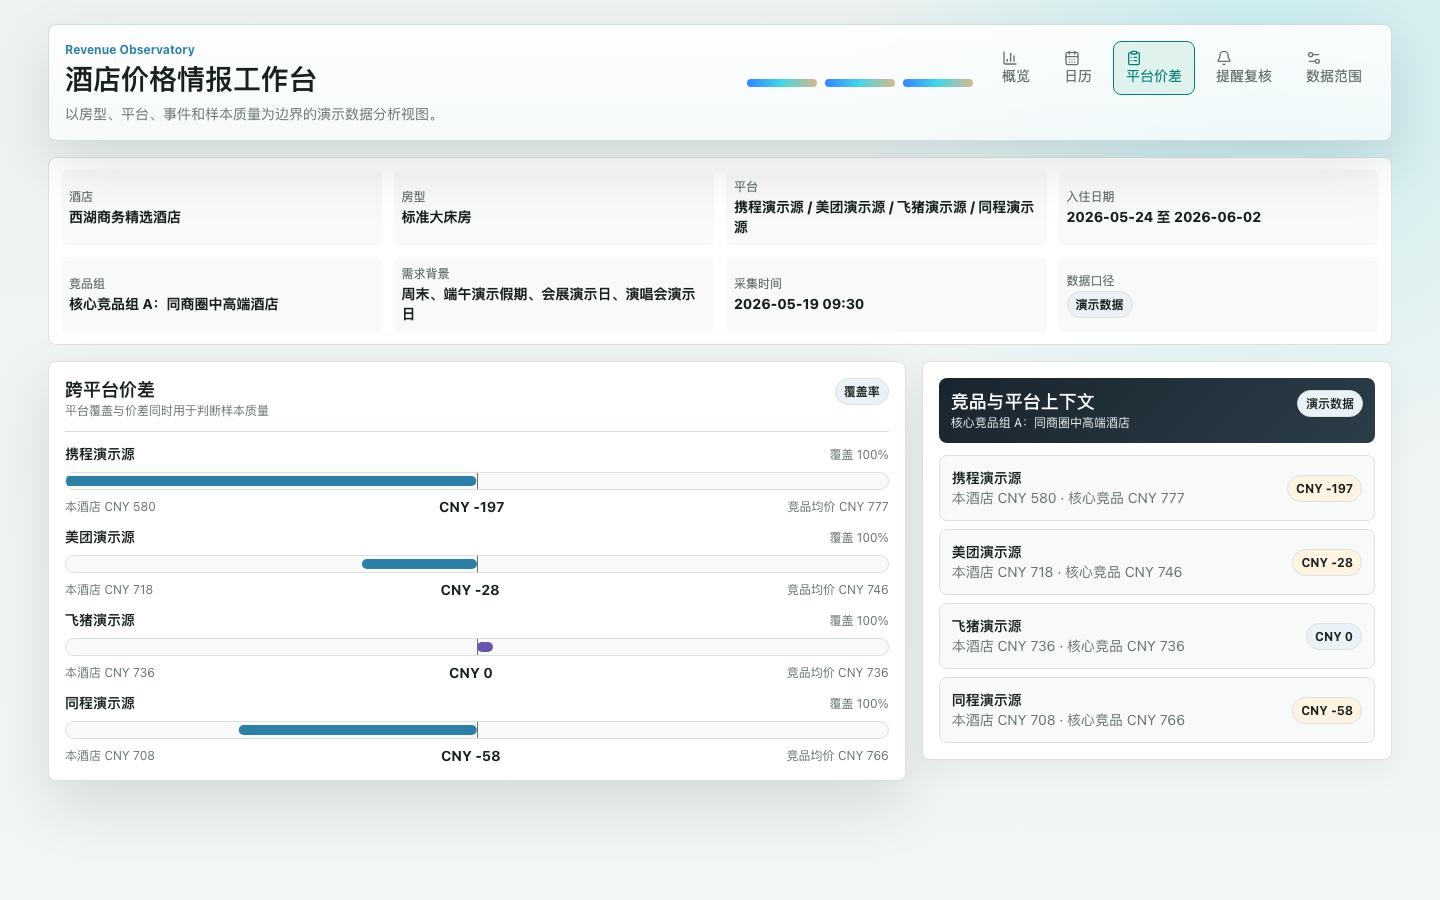
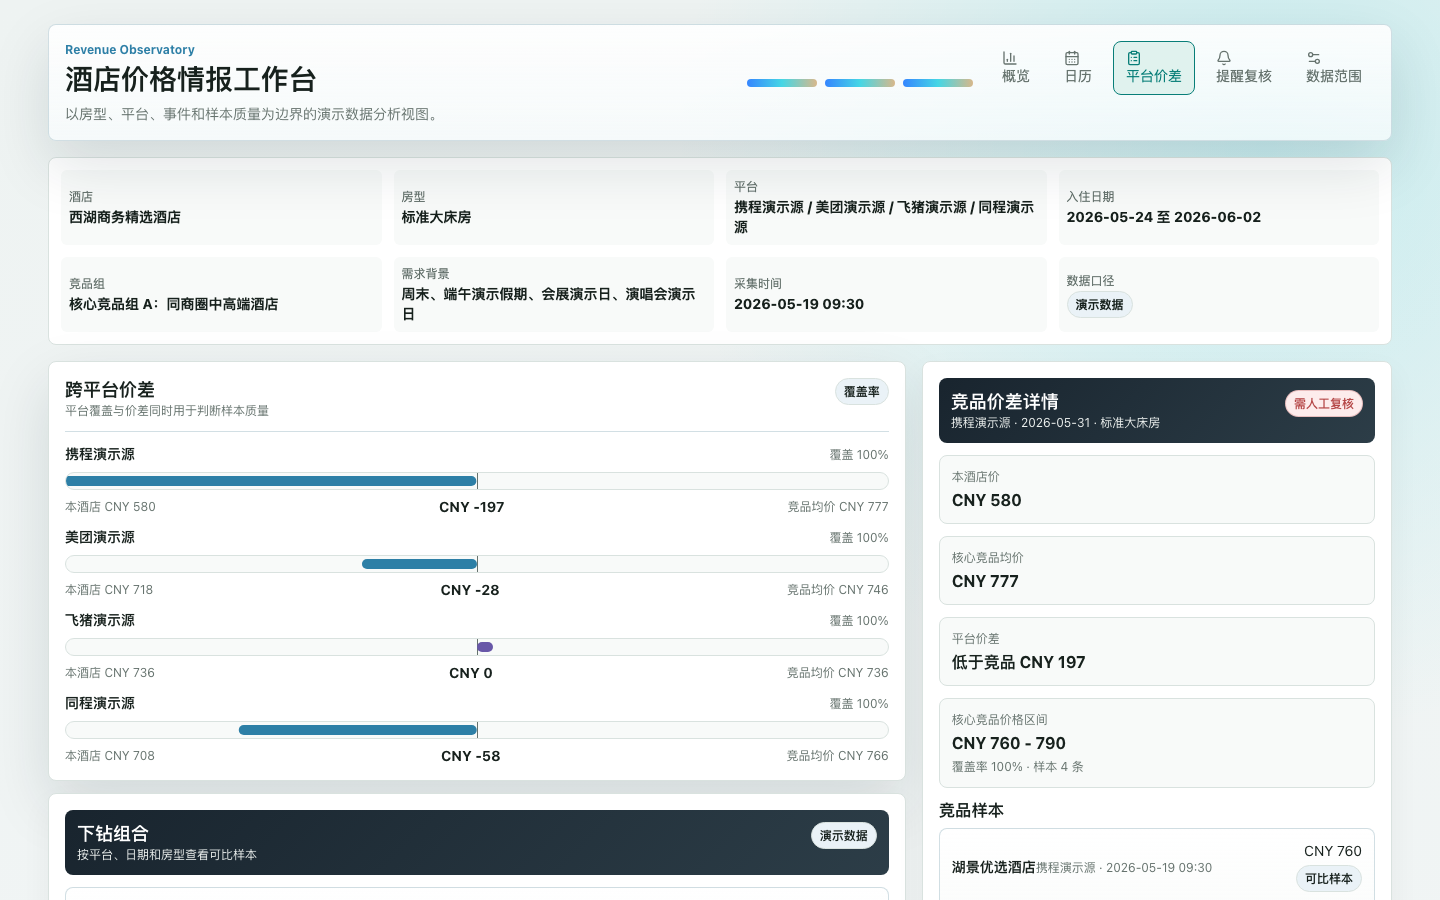
test: cover market comparison drilldown flow

diff --git a/app/tests/e2e/app-foundation.spec.ts b/app/tests/e2e/app-foundation.spec.ts
@@ -10,15 +10,15 @@ const cases = [
   ['overview-normal--390x844.png', '/?screen=overview&state=normal', { width: 390, height: 844 }],
   ['calendar-detail-open--1440x900.png', '/?screen=calendar&state=detail-open', { width: 1440, height: 900 }],
   ['calendar-detail-open--390x844.png', '/?screen=calendar&state=detail-open', { width: 390, height: 844 }],
-  ['market-comparison-platform-bars--1440x900.png', '/?screen=market&state=normal', { width: 1440, height: 900 }],
-  ['market-comparison-platform-bars--390x844.png', '/?screen=market&state=normal', { width: 390, height: 844 }],
+  ['market-comparison-platform-bars--1440x900.png', '/?screen=market&state=detail-open', { width: 1440, height: 900 }],
+  ['market-comparison-platform-bars--390x844.png', '/?screen=market&state=detail-open', { width: 390, height: 844 }],
   ['alert-review-drawer-open--1440x900.png', '/?screen=alerts&state=drawer-open', { width: 1440, height: 900 }],
   ['alert-review-drawer-open--390x844.png', '/?screen=alerts&state=drawer-open', { width: 390, height: 844 }],
   ['setup-data-scope--1280x800.png', '/?screen=setup&state=normal', { width: 1280, height: 800 }],
   ['setup-data-scope--768x1024.png', '/?screen=setup&state=normal', { width: 768, height: 1024 }],
   ['overview-observatory--2048x1352.png', '/?screen=overview&state=normal', { width: 2048, height: 1352 }],
   ['calendar-observatory--2048x1352.png', '/?screen=calendar&state=detail-open', { width: 2048, height: 1352 }],
-  ['market-observatory--2048x1352.png', '/?screen=market&state=normal', { width: 2048, height: 1352 }],
+  ['market-observatory--2048x1352.png', '/?screen=market&state=detail-open', { width: 2048, height: 1352 }],
   ['alert-review-observatory--2048x1352.png', '/?screen=alerts&state=drawer-open', { width: 2048, height: 1352 }],
   ['setup-observatory--2048x1352.png', '/?screen=setup&state=normal', { width: 2048, height: 1352 }]
 ] as const;
@@ -90,6 +90,38 @@ test('calendar date click updates mobile detail workflow without overflow', asyn
   await expect(detail).toContainText('缺少可比样本');
   await expect(detail).not.toContainText('CNY null');
   await expect(detail).not.toContainText('CNY 0');
+
+  const overflow = await page.evaluate(() => document.documentElement.scrollWidth - document.documentElement.clientWidth);
+  expect(overflow).toBeLessThanOrEqual(8);
+});
+
+test('market comparison drilldown updates mobile detail workflow without overflow', async ({ page }) => {
+  await page.setViewportSize({ width: 390, height: 844 });
+  await page.goto('/?screen=market&state=normal');
+  await expect(page.getByTestId('market-drilldown-detail')).toHaveAttribute('data-state', 'closed');
+
+  await page.goto('/?screen=market&state=detail-open');
+
+  const detail = page.getByTestId('market-drilldown-detail');
+  await expect(detail).toHaveAttribute('data-state', 'open');
+  await expect(detail).toContainText('竞品价差详情');
+  await expect(detail).toContainText('2026-05-31');
+  await expect(detail).toContainText('竞品样本');
+  await expect(detail).toContainText('采集时间');
+  await expect(detail).toContainText('需人工复核');
+
+  await page.getByRole('button', { name: /05\/27/ }).click();
+  await expect(detail).toContainText('2026-05-27');
+  await expect(detail).toContainText('暂无可比样本，需要等待人工导入或获授权来源补充。');
+  await expect(detail).toContainText('缺少可比样本');
+  await expect(detail).not.toContainText('CNY null');
+  await expect(detail).not.toContainText('CNY 0');
+
+  const storageWrites = await page.evaluate(() => ({
+    localStorage: window.localStorage.length,
+    sessionStorage: window.sessionStorage.length
+  }));
+  expect(storageWrites).toEqual({ localStorage: 0, sessionStorage: 0 });
 
   const overflow = await page.evaluate(() => document.documentElement.scrollWidth - document.documentElement.clientWidth);
   expect(overflow).toBeLessThanOrEqual(8);

diff --git a/app/src/styles/layout.css b/app/src/styles/layout.css
@@ -789,6 +789,88 @@
   gap: var(--space-4);
 }
 
+.market-drilldown-screen {
+  align-items: start;
+}
+
+.market-option-panel,
+.market-detail-panel,
+.market-detail-section,
+.market-option-list,
+.market-sample-list {
+  min-width: 0;
+}
+
+.market-option-list,
+.market-sample-list,
+.market-detail-section {
+  display: grid;
+  gap: var(--space-8);
+}
+
+.market-option-button {
+  display: grid;
+  grid-template-columns: minmax(0, 1fr) auto;
+  gap: var(--space-12);
+  align-items: center;
+  width: 100%;
+  min-width: 0;
+  padding: var(--space-12);
+  border: var(--border-width) solid var(--observatory-inset-line);
+  border-radius: var(--radius-panel);
+  background: var(--observatory-node-surface);
+  color: var(--color-ink);
+  text-align: left;
+}
+
+.market-option-button[data-selected="true"] {
+  border-color: var(--color-teal);
+  box-shadow: 0 0 0 3px var(--color-active-surface), var(--shadow-soft);
+}
+
+.market-option-button strong,
+.market-option-button small {
+  display: block;
+  overflow-wrap: anywhere;
+}
+
+.market-option-button small,
+.market-sample-row small {
+  color: var(--color-muted);
+  font-size: var(--font-meta-size);
+  line-height: var(--font-meta-line);
+}
+
+.market-sample-row {
+  display: grid;
+  grid-template-columns: minmax(0, 1fr) auto;
+  gap: var(--space-8) var(--space-12);
+  align-items: center;
+  min-width: 0;
+  padding: var(--space-12);
+  border: var(--border-width) solid var(--observatory-inset-line);
+  border-radius: var(--radius-panel);
+  background: var(--observatory-node-surface);
+}
+
+.market-sample-row > small {
+  grid-column: 1 / -1;
+}
+
+.market-sample-row__rate {
+  display: grid;
+  gap: var(--space-4);
+  justify-items: end;
+  text-align: right;
+}
+
+.market-sample-row[data-status="missing-sample"],
+.market-sample-row[data-status="stale"],
+.market-sample-row[data-status="unavailable"],
+.market-sample-row[data-status="source-error"] {
+  border-style: dashed;
+}
+
 .alert-row {
   display: grid;
   grid-template-columns: minmax(0, 1fr) auto;
@@ -1002,6 +1084,16 @@
 
   .metric-lattice {
     grid-template-columns: 1fr;
+  }
+
+  .market-option-button,
+  .market-sample-row {
+    grid-template-columns: minmax(0, 1fr);
+  }
+
+  .market-sample-row__rate {
+    justify-items: start;
+    text-align: left;
   }
 }
 

diff --git a/app/src/App.tsx b/app/src/App.tsx
@@ -29,7 +29,7 @@ export function App() {
   const content = {
     overview: <OverviewScreen dataset={demoDataset} state={state === 'loading' || state === 'empty' ? state : 'normal'} />,
     calendar: <CalendarScreen dataset={demoDataset} detailOpen={state === 'detail-open'} />,
-    market: <MarketComparisonScreen dataset={demoDataset} />,
+    market: <MarketComparisonScreen dataset={demoDataset} detailOpen={state === 'detail-open'} />,
     alerts: <AlertReviewScreen dataset={demoDataset} drawerOpen={state === 'drawer-open'} />,
     setup: <SetupDataScopeScreen dataset={demoDataset} />
   } satisfies Record<ScreenId, ReactElement>;

diff --git a/app/src/screens/MarketComparisonScreen.tsx b/app/src/screens/MarketComparisonScreen.tsx
@@ -73,7 +73,7 @@ function CompetitorSampleRow({ sample }: { sample: MarketCompetitorSample }) {
   );
 }
 
-export function MarketComparisonScreen({ dataset, detailOpen = true }: MarketComparisonScreenProps) {
+export function MarketComparisonScreen({ dataset, detailOpen = false }: MarketComparisonScreenProps) {
   const options = dataset.marketDrilldown.options;
   const initialOptionId = dataset.marketDrilldown.byId[dataset.marketDrilldown.selectedOptionId]
     ? dataset.marketDrilldown.selectedOptionId
